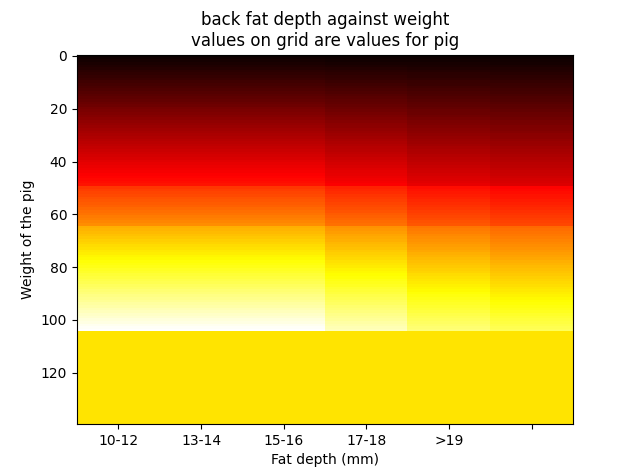
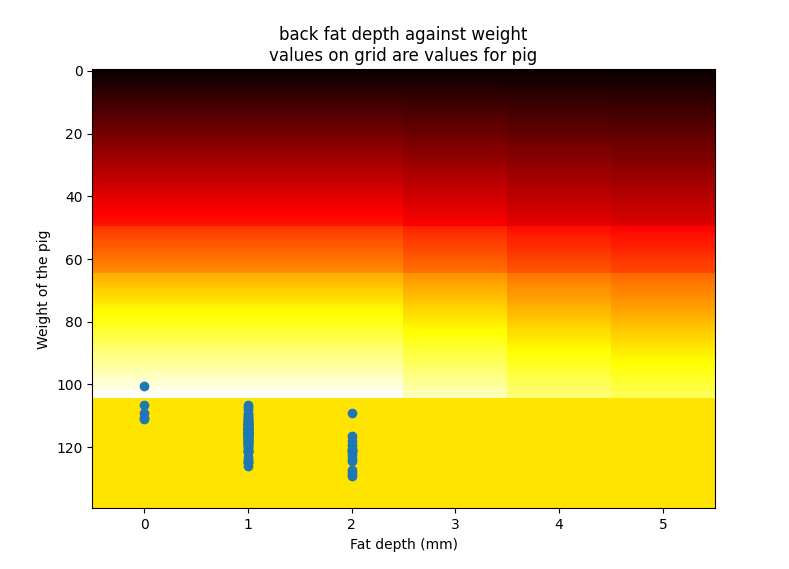
Added real weights to plot also

diff --git a/CostAnalysis.py b/CostAnalysis.py
@@ -3,11 +3,27 @@ Plots reduction from max value for pig against fat depth for different pigs, sho
 """
 from matplotlib import pyplot as plt
 import numpy as np
+import csv
 
 
 def pig_value(pigBackFatPenalty, pigWeight):
     return (150+pigBackFatPenalty)*pigWeight
 
+# import real data to plot also
+reader = np.loadtxt(open("weight_data.csv", "rb"), delimiter=",", skiprows=1)
+real_average_weights = reader[:, -3]
+real_p2_backfat_depth = reader[:, -1]
+print(real_p2_backfat_depth)
+for i in range(0, len(real_p2_backfat_depth)):
+    if real_p2_backfat_depth[i] < 10:
+        real_p2_backfat_depth[i] = 0
+    elif 10 <= real_p2_backfat_depth[i] < 12:
+        real_p2_backfat_depth[i] = 1
+    elif 12 <= real_p2_backfat_depth[i] < 14:
+        real_p2_backfat_depth[i] = 2
+    elif 14 <= real_p2_backfat_depth[i] < 16:
+        real_p2_backfat_depth[i] = 3
+print(real_p2_backfat_depth)
 
 fatDepths = ["<10", "10-12", "13-14", "15-16", "17-18", ">19"]
 
@@ -95,8 +111,8 @@ print(allValues.shape)
 
 fig, ax = plt.subplots()
 ax.imshow(allValues, cmap='hot', interpolation='nearest', aspect='auto')
-ax.set_xticklabels(fatDepths)
 ax.set(xlabel='Fat depth (mm)', ylabel='Weight of the pig', title='back fat depth against weight\n'
                                                                     'values on grid are values for pig')
+ax.scatter(real_p2_backfat_depth, real_average_weights)
 
 plt.show()
